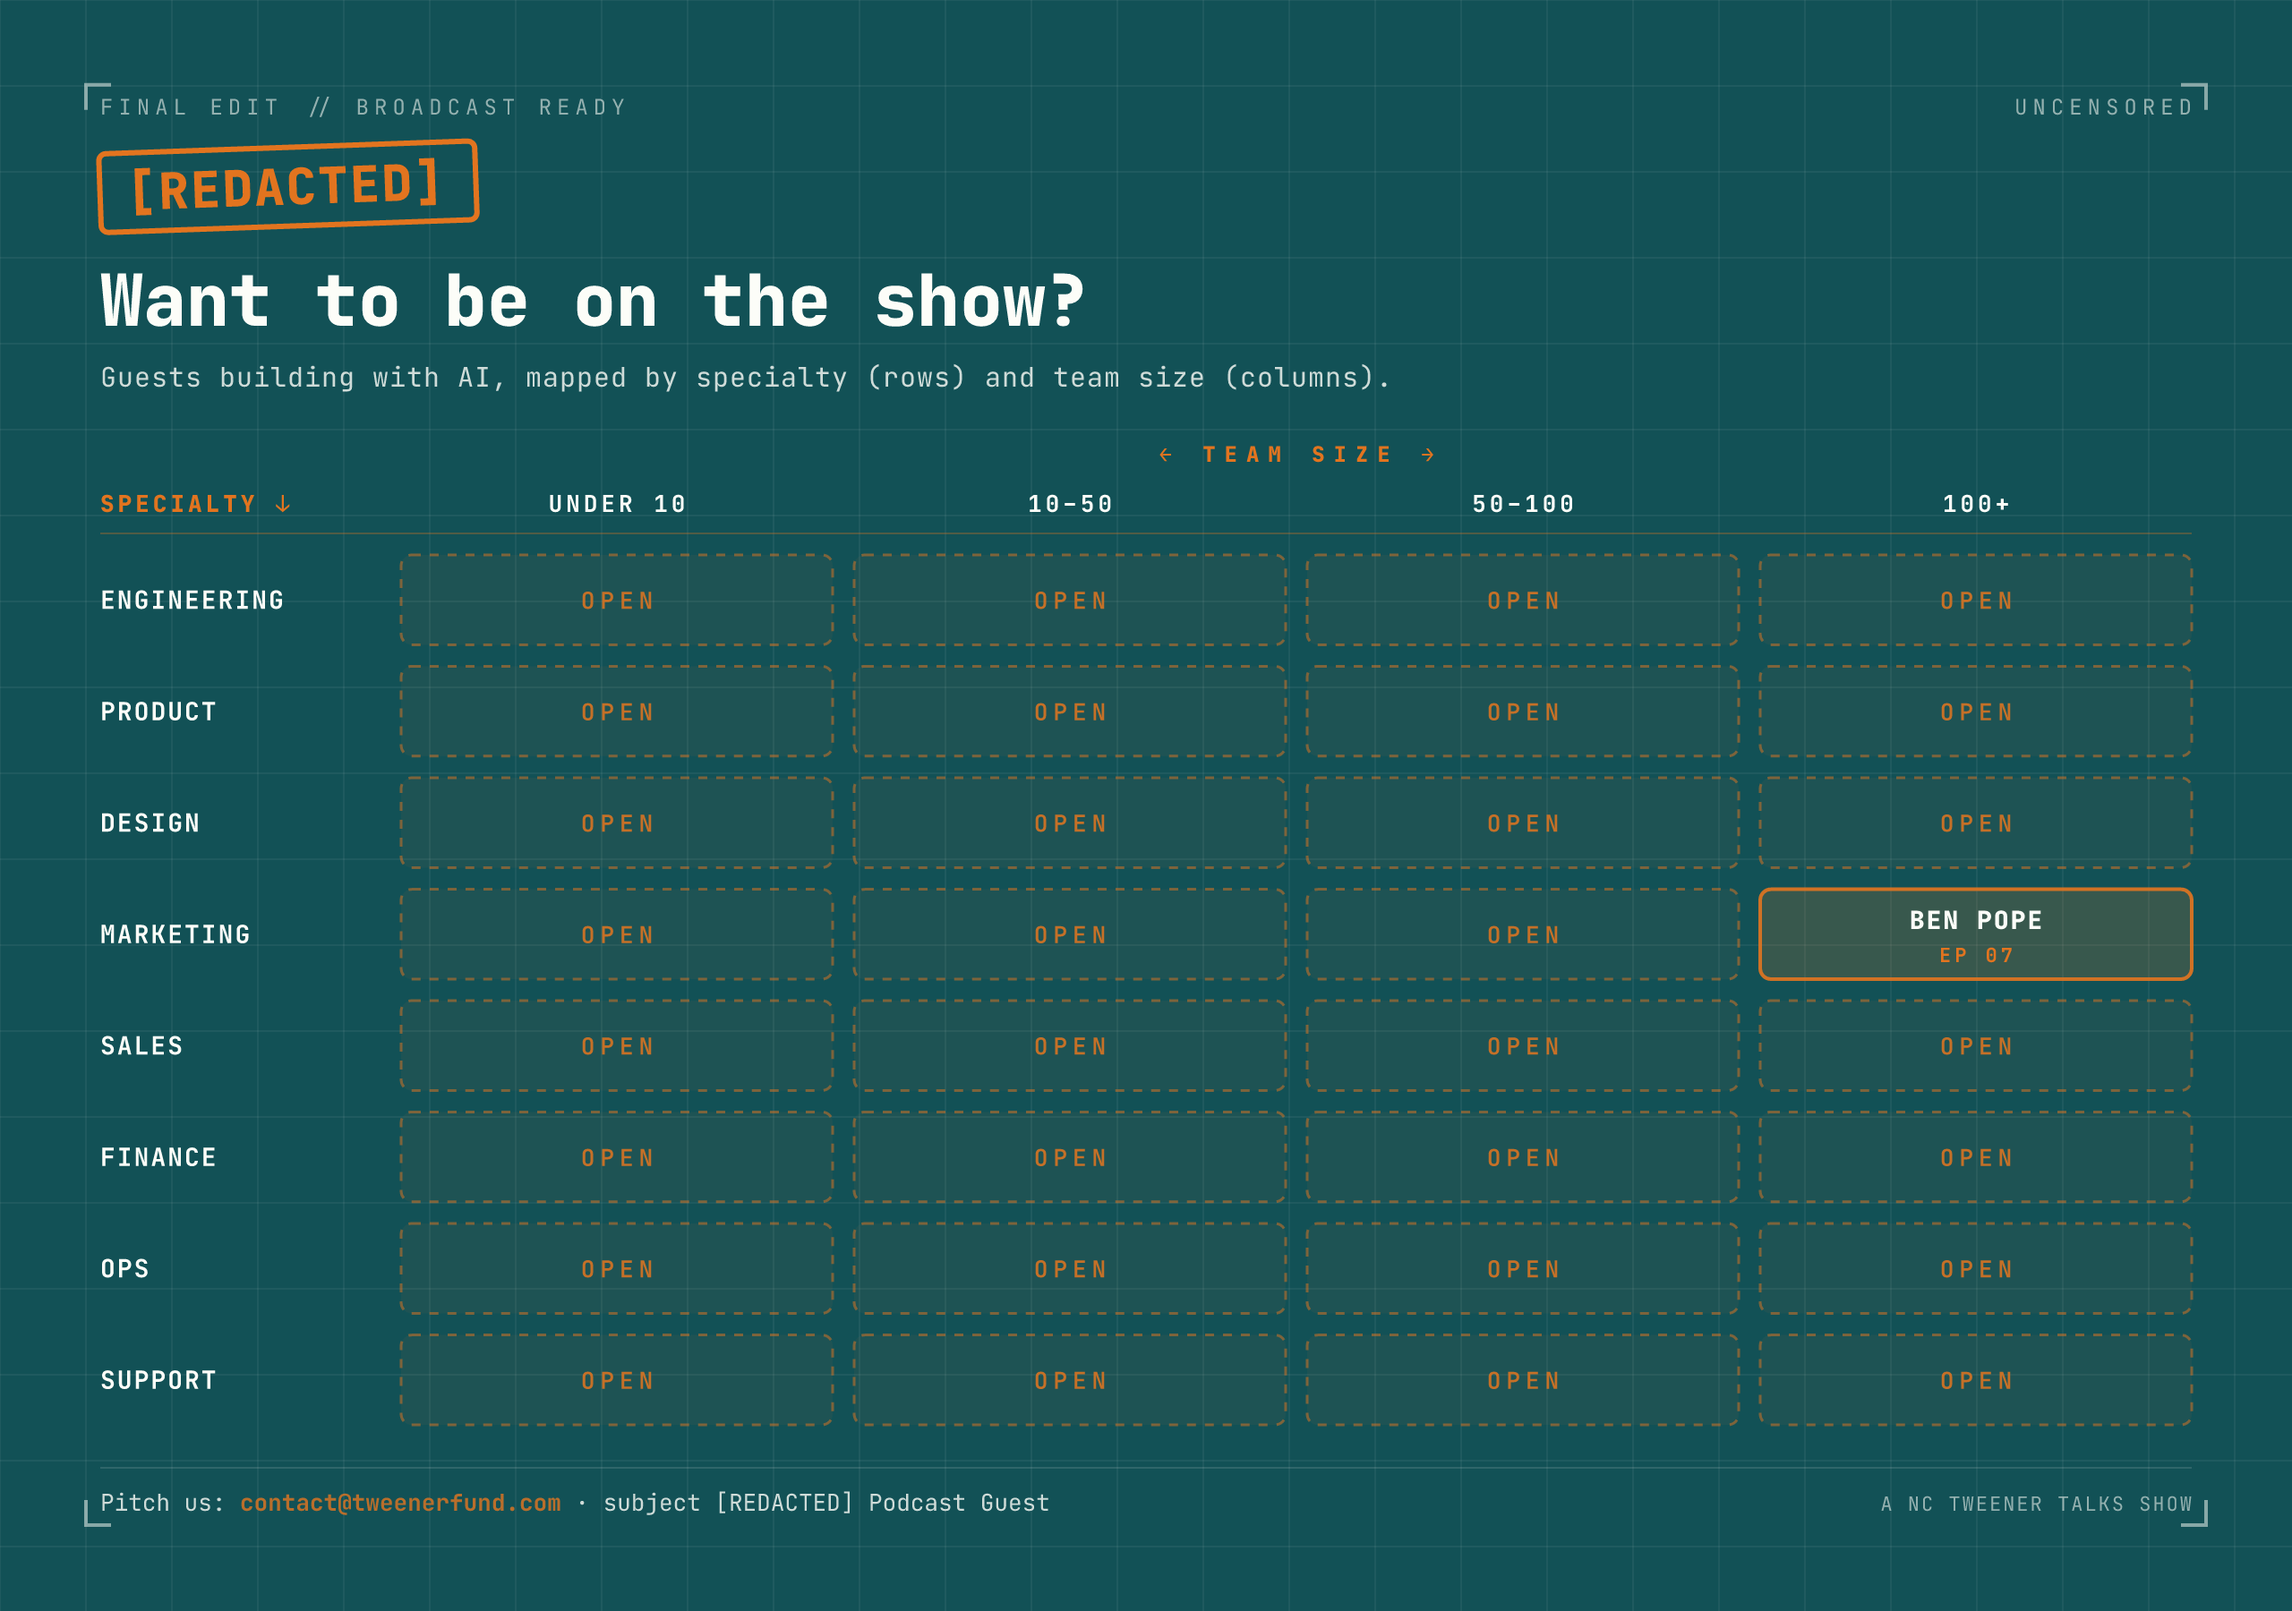
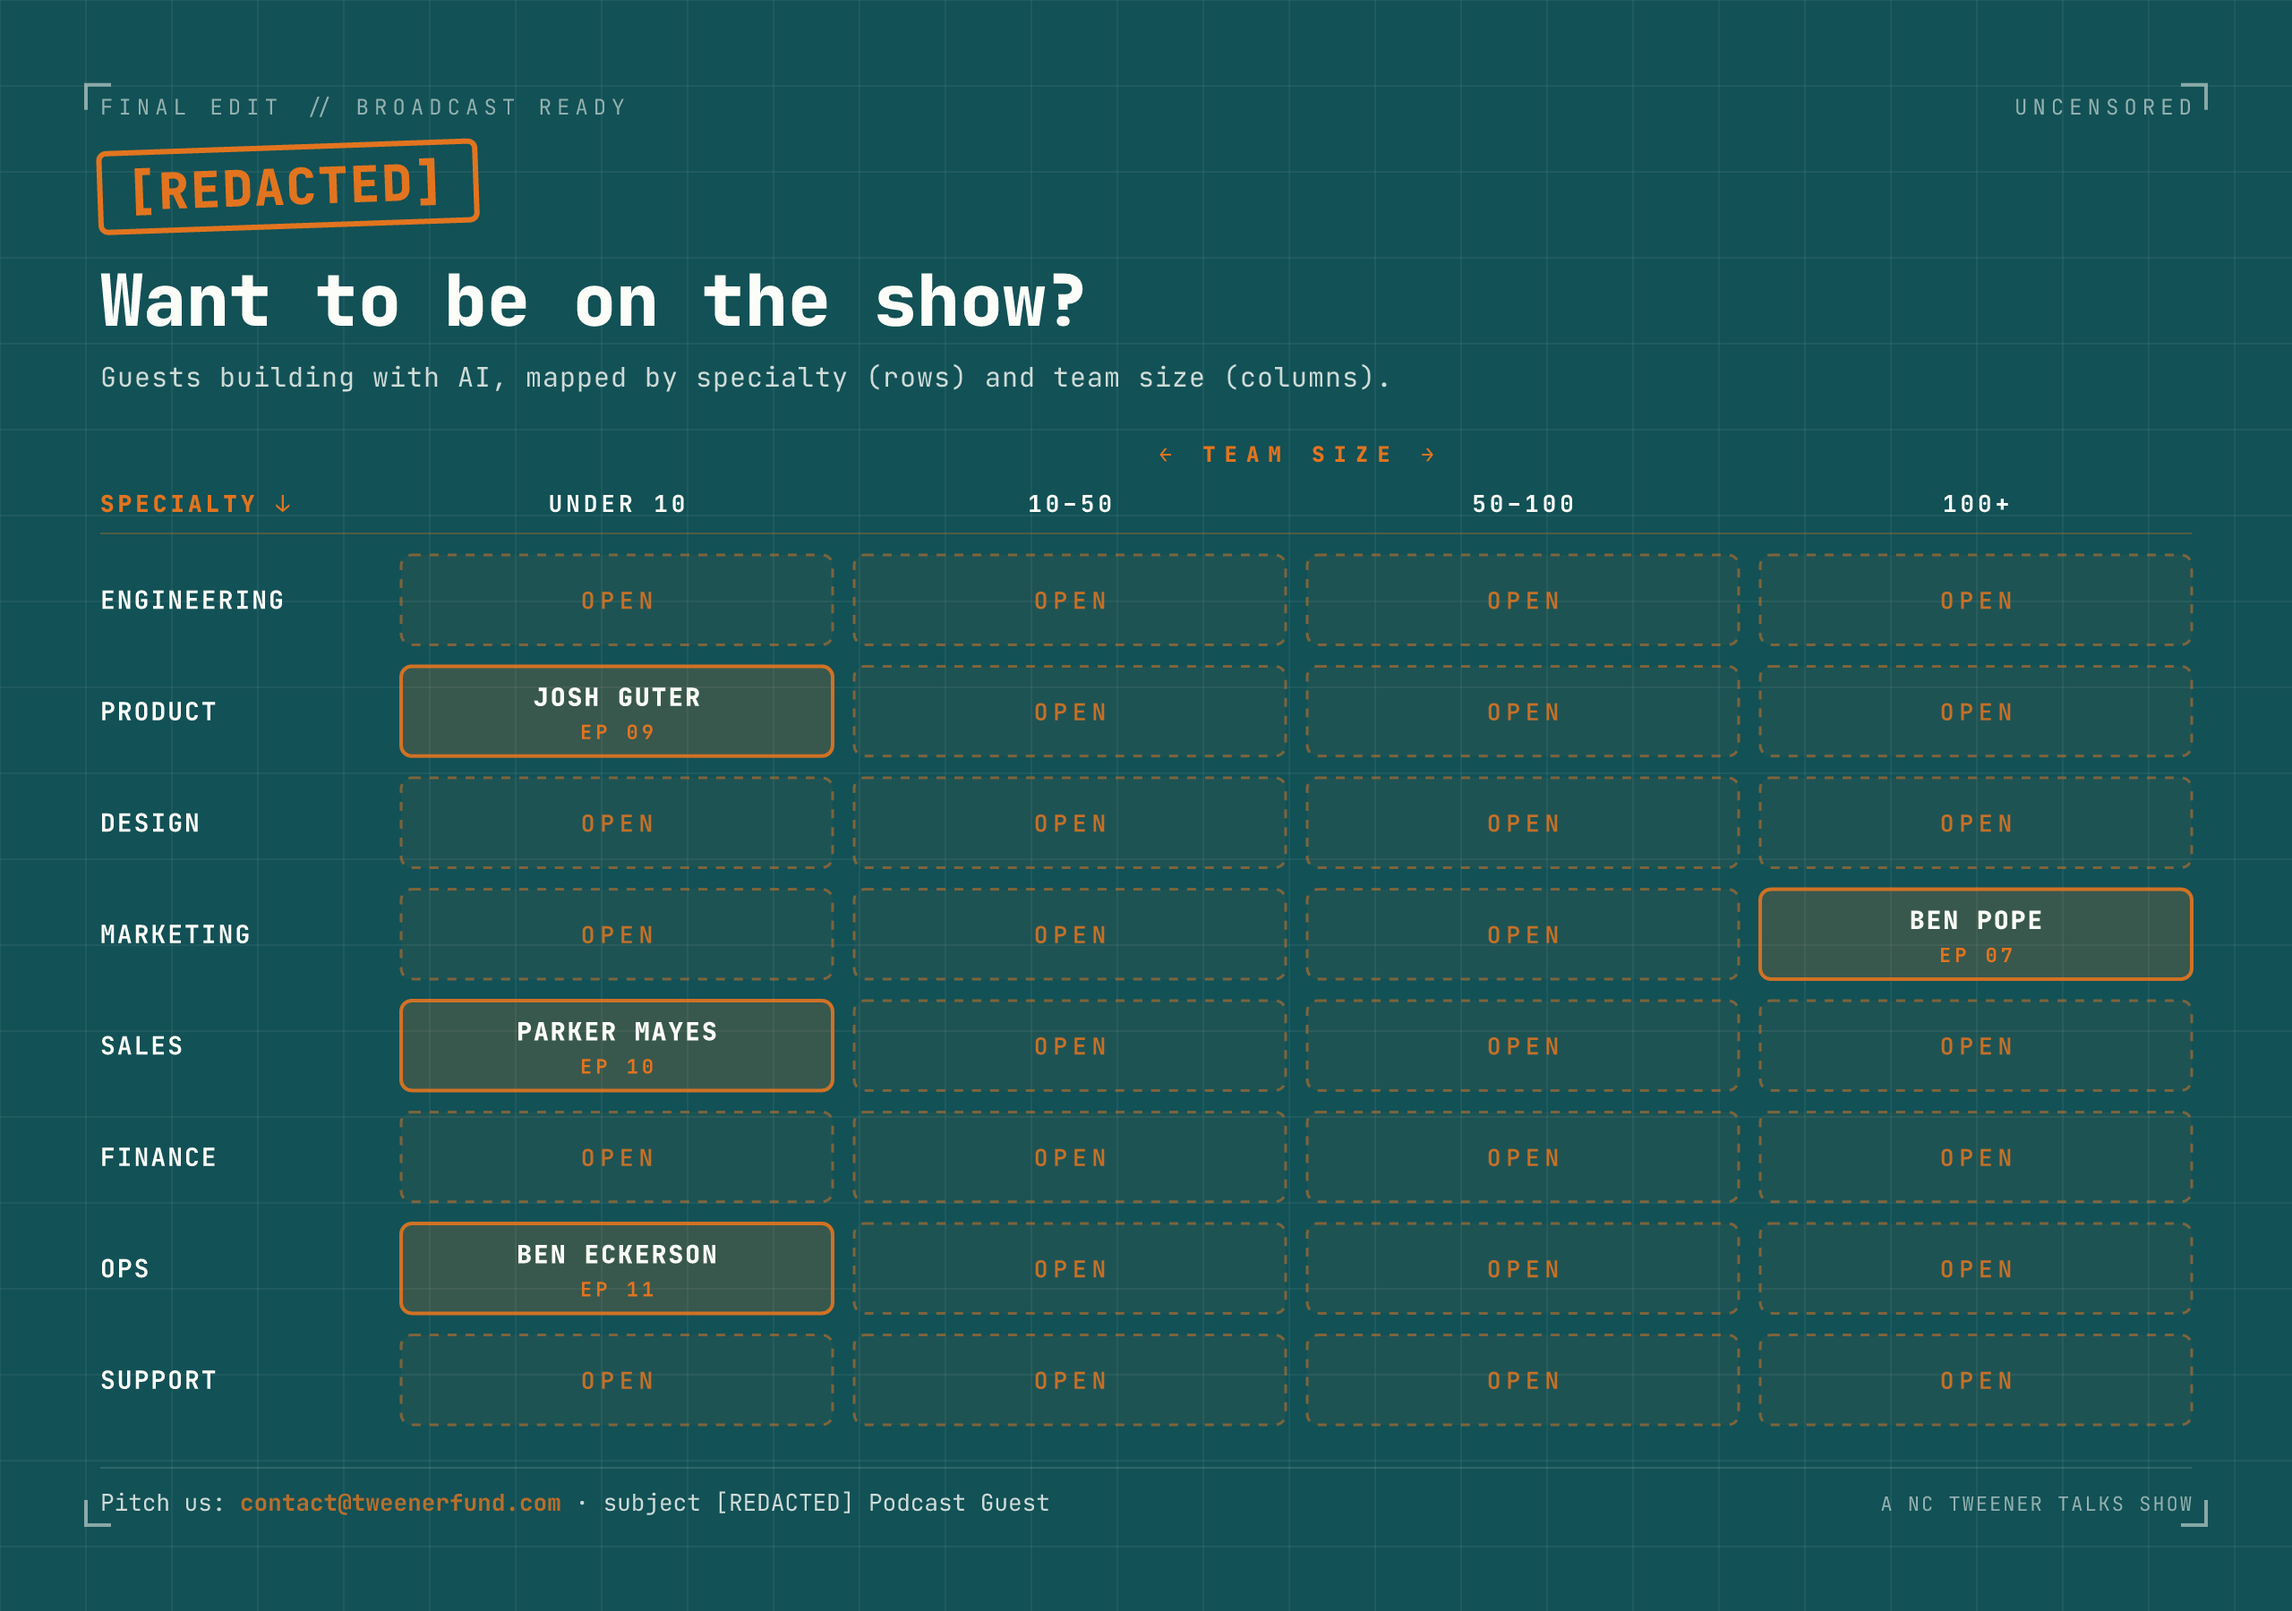
ep09 notes; guest grid: add Guter, Mayes, Eckerson
Fill Ep 9 show notes from the Substack article. Add the three recorded
guests missing from assets/guest-grid.svg and re-render the PNG.

prep-recorded-episode: new step 6 covering the guest grid, so it gets
updated at prep time instead of drifting behind.

Changed region(s): [[0.1562, 0.7467, 0.375, 0.84], [0.1562, 0.4044, 0.375, 0.4978], [0.1562, 0.6222, 0.375, 0.6844]]

diff --git a/009/README.md b/009/README.md
@@ -5,15 +5,28 @@
 📝 **Full show notes:** [Read on tweenertimes.com](_TBD_)
 🎧 **Listen:** [Apple](_TBD_) · [Spotify](https://open.spotify.com/show/1aMrtX8LnIU2w5yoT4uolb) · [YouTube](_TBD_)
 
-_Intro — TBD once the Substack draft is ready (pulled during publish-week staging)._
+Almost entirely a product teardown. Josh Guter demos the AI assistant running Elephants, his ops platform for small teams, then spends the back half getting grilled on what every founder shipping an AI chat feature actually loses sleep over: which model, what it can touch, how you stop it doing something dumb, and how you audit a system too complex to fully read anymore.
 
 ## What we cover
 
-- _TBD — pulled from the Substack draft during publish-week staging._
+- 64 tools, one job each — search relationships, search projects, stage a card — each with tight instructions on when the model reaches for it
+- Nothing writes without a click: "create 10 catering tasks" comes back as cards you review and add; deletes and archives always need a human, even in auto mode
+- Breadcrumbs instead of a black box: every tool call, error, and decision path logged to a table he can pull up when a customer says the assistant did something weird
+- "That's kind of scary" — how much of his own codebase has gone opaque to him, and opening a fresh Claude Code session to explain it "like I'm 5"
+- Illustrator mockup → Claude plan → Codex teardown, a build loop that starts in Adobe Illustrator from his graphic communications degree
+- Red-teaming himself in a dedicated assistant stress test space, including trying to make it mass-delete every note in a workspace
+- Glide + Make.com to full-stack: the rebuild ran on Opus 4.8 with Codex reviewing, using the old Make scenarios as the literal spec
+- Six months running NC State's Entrepreneurship Clinic — asked which contacts to check in with before a leadership transition, and it surfaced the right four or five from conversation history
+- A PWA on purpose: no App Store, identical on desktop, mobile browser, or installed to a home screen
+- "Neck deep in AI psychosis" — the honest solo-founder moment, and what keeps him grounded
 
 ## Find Josh
 
 - **Josh Guter on LinkedIn** — https://www.linkedin.com/in/josh-guter/
 - **Elephants** — Josh's company — https://joinelephants.com
+
+## Files shared on-air
+
+- _TBD — files, skills, and workflows shown on this episode land in this folder._
 
 > **Didn't see what was shown on-air?** We don't always post everything — some of it stays redacted. **[Request a file →](mailto:contact@tweenerfund.com?subject=%5BREDACTED%5D%20Ep%209%20file%20request)**

diff --git a/.claude/skills/prep-recorded-episode/SKILL.md b/.claude/skills/prep-recorded-episode/SKILL.md
@@ -30,9 +30,11 @@ This is **Process 2** in [`process/post-recording-process-map.md`](../../../proc
 
 5. **Write the folder README.** Create `00N/` (or rename to `00N-slug/` only once there's a title). Use the template below. Fill knowns; mark unknowns `_TBD_`.
 
-6. **Do NOT add a row to the root README "Episodes" list.** That list is **launched episodes only** — an unlaunched episode never appears there. The Episodes-list row gets added later, at launch, by `finalize-launched-episode`. Prep only creates the `00N/` folder + its README. If the stub-folder note below the table names this folder, keep it accurate.
+6. **Update the guest grid graphic.** `assets/guest-grid.svg` maps guests by **specialty (rows)** x **team size (columns)** and is embedded in both `README.md` and `want-to-be-on.md`. Recorded guests go on at prep time — this graphic does **not** follow the launched-only rule the Episodes list does (Taylor, 2026-08-19). Pick the cell from the guest's own words (the team size they gave you, the function they described), and propose it before editing — placement is Taylor's call. To fill a cell, swap the dashed `OPEN` group for the filled variant: same `rect` x/y/width/height, but `fill-opacity="0.18"`, `stroke-opacity="0.9"`, `stroke-width="2"`, no `stroke-dasharray`; then two centered `<text>` lines at `rect y + 22.2` (guest name, size 14, weight 800, fill `#FCFDF8`) and `rect y + 40.7` (`EP NN`, size 11, weight 700, fill `#E2741F`). Re-render with `python3 tools/render_svg.py` (needs `resvg`), eyeball the PNG, and commit the `.svg` and regenerated `.png` together.
 
-7. **Confirm before commit.** Show `git diff` and `grep -rn _TBD_ 00N*`. On approval, commit straight to `main` (this repo works directly on main). Otherwise leave it staged.
+7. **Do NOT add a row to the root README "Episodes" list.** That list is **launched episodes only** — an unlaunched episode never appears there. The Episodes-list row gets added later, at launch, by `finalize-launched-episode`. Prep only creates the `00N/` folder + its README. If the stub-folder note below the table names this folder, keep it accurate.
+
+8. **Confirm before commit.** Show `git diff` and `grep -rn _TBD_ 00N*`. On approval, commit straight to `main` (this repo works directly on main). Otherwise leave it staged.
 
 ## Folder README template
 
